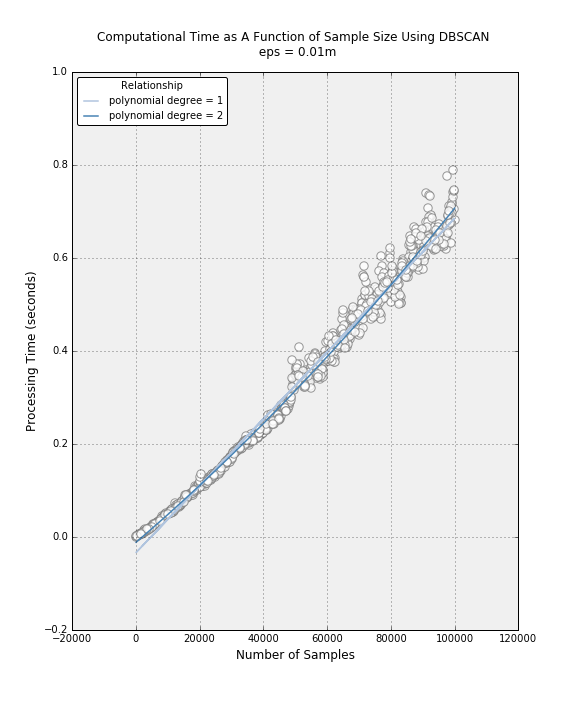
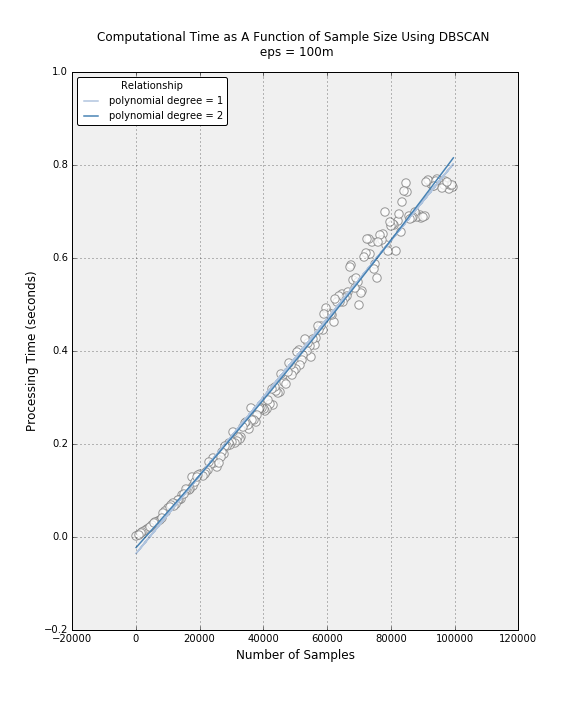
images

Changed region(s): [[0.2188, 0.2139, 0.8125, 0.7639], [0.4375, 0.0611, 0.5938, 0.0917]]

diff --git a/Assignment1.md b/Assignment1.md
@@ -190,9 +190,9 @@ if sample size hits 100 million.
 
 
 #### DBSCAN Scalability and Estimation
-Original data were converted into unit of meter so that eps is easily interpreted. Given eps=0.01m, processing time as a function of sample size are plotted with two types of fitted line.
+Original data were converted into unit of meter so that eps is easily interpreted. Given eps=100m, processing time as a function of sample size are plotted with two types of fitted line.
 Figure below indicates that darker blue fitted line seems to better represent the relationship between processing time and sample size. Given this, processing time to produce at least 100 clusters is estimated to be
-around 19 seconds when sample size is 100 million.
+around 15.45 seconds when sample size is 100 million.
 
 ![Computational time as a function of sample size for a fixed eps=0.01m with DBSCAN][Figure4]
 
